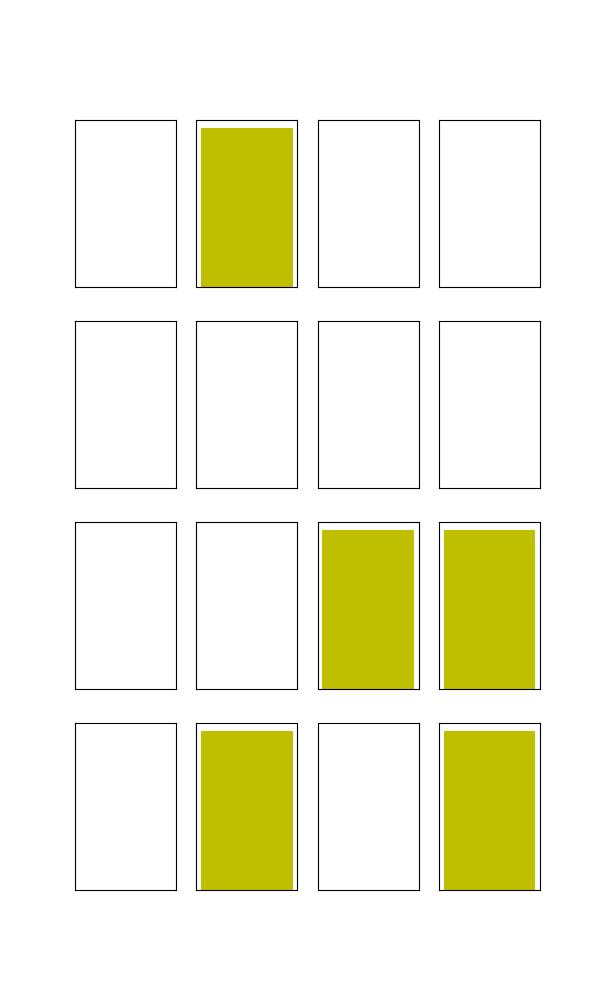
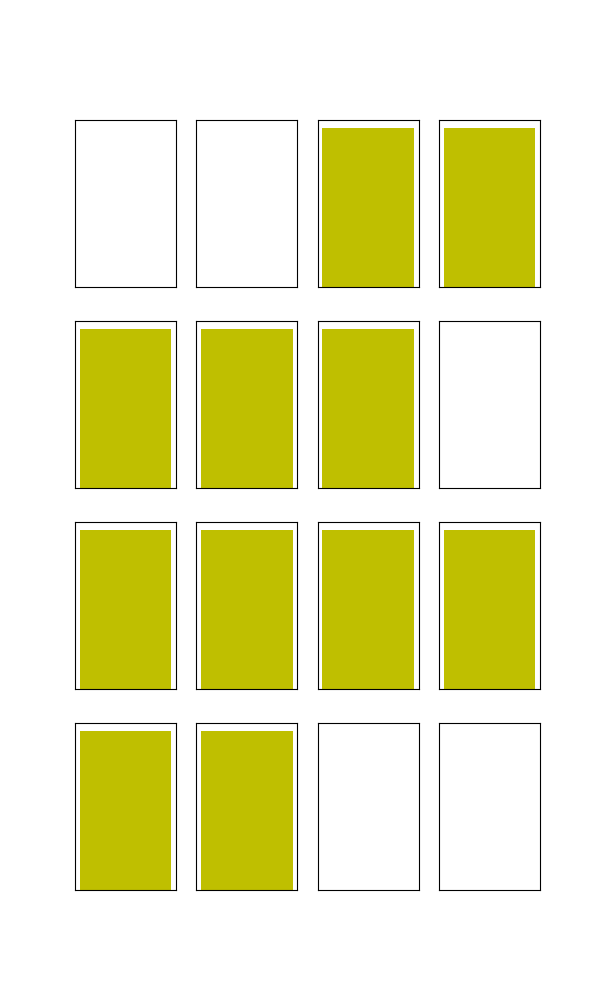
Invert images. Mark which images should be talked about.

diff --git a/pictonara/plot.py b/pictonara/plot.py
@@ -10,7 +10,7 @@ def make_mask_images(masks: np.ndarray) -> None:
         fig, ax = plt.subplots(4, 4)
         fig.set_size_inches(6, 10)
         for card_idx, m in enumerate(mask):
-            if m == 1:
+            if m == 0:
                 ax[card_idx % 4, card_idx // 4].hist(m, bins=1, color=colors[player_idx])
             ax[card_idx % 4, card_idx // 4].set_xticks([])
             ax[card_idx % 4, card_idx // 4].set_yticks([])
